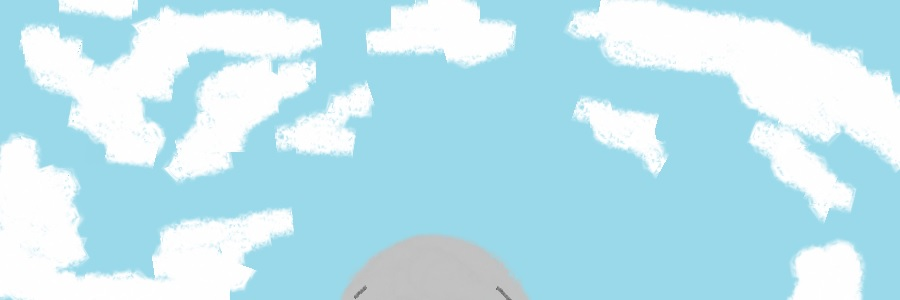
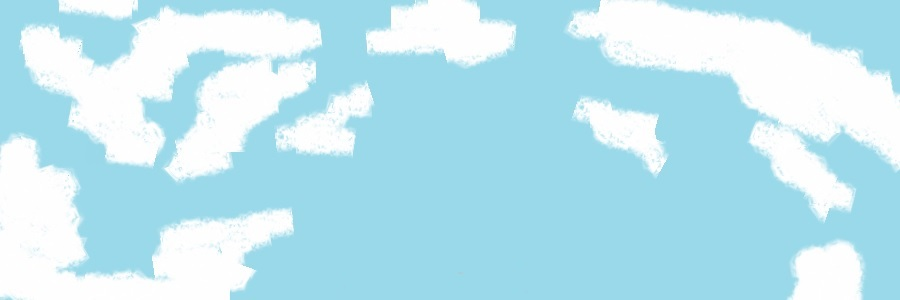
feat: implementacion de simulacion con colicion (incompleto))

Changed region(s): [[0.3733, 0.78, 0.5911, 1.0]]

diff --git a/src/components/terreno/VistaPrimeraPersona.vue b/src/components/terreno/VistaPrimeraPersona.vue
@@ -1,11 +1,18 @@
 <template>
-  <div class="vistaPP">
+  <div class="img-move-wrapper">
+    <button @click="Vuelo1">vuelo de prueba 1</button>
+    <button @click="Vuelo1">vuelo de prueba 2</button>
+    <img
+      id="torre"
+      src="src/assets/primerapersona/edificio.jpg"
+      class="img-move img-move-1 img-fluid"
+    />
+
     <img
       id="imagen"
       src="src/assets/primerapersona/imagen0.jpg"
-      style="width: 900px; height: 300px"
+      class="img-move img-move-2 img-fluid"
     />
-    <button @click="Vuelo1">Haz clic</button>
   </div>
 </template>
 
@@ -62,7 +69,7 @@
         //estado consiguiendo altura
         setTimeout(() => {
           //cambio de valores
-          store.dispatch('setEstadoPitch_yoke', 10)
+          store.dispatch('setEstadoPitch_yoke', 20)
           store.dispatch('setThrottleDepth', 10)
           store.dispatch('setEstadoMixture', 10)
 
@@ -71,26 +78,26 @@
           console.log('trotle: ', store.getters.getThrottleDepth)
           console.log('mixture: ', store.getters.getEstadoMixture)
           console.log('angulo pich: ', store.getters.anguloPitch)
-        }, 3000)
+        }, 4000)
 
         //estado manteniendo se en el aire
         setTimeout(() => {
           //cambio de valores
-          store.dispatch('setEstadoPitch_yoke', -30)
-          store.dispatch('setThrottleDepth', 10)
-          store.dispatch('setEstadoMixture', 10)
+          store.dispatch('setEstadoPitch_yoke', 0)
+          store.dispatch('setThrottleDepth', 30)
+          store.dispatch('setEstadoMixture', 30)
 
           console.log('------------------')
           console.log('mati baja aire')
           console.log('trotle: ', store.getters.getThrottleDepth)
           console.log('mixture: ', store.getters.getEstadoMixture)
           console.log('angulo pich: ', store.getters.anguloPitch)
-        }, 4000)
+        }, 8000)
 
         //estado bajando hasta colicionar
         setTimeout(() => {
           //cambio de valores
-          store.dispatch('setEstadoPitch_yoke', 70)
+          store.dispatch('setEstadoPitch_yoke', -10)
           store.dispatch('setThrottleDepth', 10)
           store.dispatch('setEstadoMixture', 10)
 
@@ -99,7 +106,33 @@
           console.log('trotle: ', store.getters.getThrottleDepth)
           console.log('mixture: ', store.getters.getEstadoMixture)
           console.log('angulo pich: ', store.getters.anguloPitch)
-        }, 13000)
+        }, 8500)
+
+        setTimeout(() => {
+          //cambio de valores
+          store.dispatch('setEstadoPitch_yoke', 0)
+          store.dispatch('setThrottleDepth', 10)
+          store.dispatch('setEstadoMixture', 10)
+
+          console.log('------------------')
+          console.log('mati subiendo altura')
+          console.log('trotle: ', store.getters.getThrottleDepth)
+          console.log('mixture: ', store.getters.getEstadoMixture)
+          console.log('angulo pich: ', store.getters.anguloPitch)
+        }, 15000)
+
+        setTimeout(() => {
+          //cambio de valores
+          store.dispatch('setEstadoPitch_yoke', 0)
+          store.dispatch('setThrottleDepth', 0)
+          store.dispatch('setEstadoMixture', 0)
+
+          console.log('------------------')
+          console.log('mati subiendo altura')
+          console.log('trotle: ', store.getters.getThrottleDepth)
+          console.log('mixture: ', store.getters.getEstadoMixture)
+          console.log('angulo pich: ', store.getters.anguloPitch)
+        }, 30000)
       },
     },
   }
@@ -111,5 +144,47 @@
     height: 900px;
     background-size: cover;
     background-position: center;
+    position: absolute;
+  }
+
+  .img-move {
+    position: absolute;
+  }
+
+  .img-move-1 {
+    left: 400px;
+    top: 100px;
+
+    visibility: hidden;
+
+    z-index: 1; /* This image will be on top */
+  }
+
+  .img-move-2 {
+    left: 0px;
+    top: 20px;
+    z-index: 0;
+  }
+
+  .img-move-wrapper {
+    position: relative;
+    overflow: hidden;
+    width: 900px;
+    height: 300px;
+    /*max-width: 1140px; /* Bootstrap 4 container max-width for extra large devices */
+    margin: 0 auto;
+  }
+
+  .edificio_mapa {
+    top: 50px; /* Ajusta la posición vertical de la imagen superpuesta */
+    left: 50px;
+    z-index: 2;
+  }
+
+  .vistaAvion {
+    position: absolute;
+    width: 900px;
+    height: 300px;
+    z-index: 1;
   }
 </style>

diff --git a/src/modules/avion.js b/src/modules/avion.js
@@ -22,6 +22,8 @@ const avion = {
       longitud: 0,
     },
 
+    choque:false,
+
     estado_motor: false, // indica si esta encendido o no el motor
 
     //variables / constantes del avion
@@ -36,6 +38,9 @@ const avion = {
   mutations: {
     // Mutaciones para modificar el estado del avion
     // usen acciones NO las mutaciones directamente
+    alternaChoque(state) {
+      state.choque = !state.choque;
+    },
 
     // --------- velocidades ---------
     setVelocidadX(state, velX) {
@@ -74,6 +79,8 @@ const avion = {
       state.coordenadas_actuales = coordenadas;
     },
 
+ 
+
     // --------- constantes (solo deberían ser seteadas una vez) ---------
     setPeso(state, peso) {
       console.warn('Seteado el peso');
@@ -82,6 +89,10 @@ const avion = {
   },
   actions: {
     // Acciones para realizar operaciones relacionadas con el avion
+
+    alternaChoque({ commit }) {
+      commit('alternaChoque');
+    },
 
     // --------- velocidades ---------
     setVelocidadX({ commit }, velX) {
@@ -125,6 +136,8 @@ const avion = {
     },
   },
   getters: {
+    choque: (state) => state.choque,
+
     // Getters para obtener datos del estado del avion
     // latitud actual del avion
     latitud: (state) => state.coordenadas_actuales.latitud,

diff --git a/src/App.vue b/src/App.vue
@@ -91,6 +91,16 @@
       update() {
         VistaPrimeraPersona.methods.funcionVerificar()
 
+        //a futuro cambiar a archivo .js
+        //cordenadas de torre
+
+        if (this.coordenadas_actuales.latitud > 400) {
+          console.log(
+            'oh no hesldkfjaslkdfjdslkajflksdjflkasdfjklsadjf chocado alkfjasdlkfj'
+          )
+          store.dispatch('alternaChoque')
+        }
+
         this.angulo_avion = store.getters.getHeadingIndicator
         this.mixture = store.getters.getEstadoMixture
         //console.log('mixture:', this.mixture)
